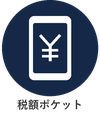
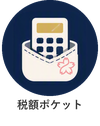
ポータルのアイコンをアプリ本体の絵柄にし、配布物から連絡手段の名前を外す
いずれも 2026-08-20 のユーザー判断（判断ログ D-39）。kintone 側も同日に
差し替え済み（ポータルのアイコン・レコードの説明・添付の配布手順書）。

- ポータルの丸アイコンを icons/icon-512.png を丸く切ったものに変更した。
  職員のホーム画面と同じ絵になり、説明なしで結び付く。本体のアイコンを
  作り直したらポータル側も流し直す旨を CLAUDE.md に書いた
- チャットワークを畳む予定のため、改正の知らせ方・要望の宛先から手段の
  名前を外した（配布手順書の md と html、改正対応手順、案内文）
- PCのブラウザでも使えることを配布手順書と案内文に1行ずつ足した
- ファイル管理アプリのアクセス権を確認し、全職員が開けることを記録した

diff --git a/docs/配布手順書.html b/docs/配布手順書.html
@@ -161,12 +161,13 @@
 <div class="sheet">
 
 <h1>税額ポケット 使い方</h1>
-<p class="lead">関与先で税額を出すための計算ツールです。スマートフォンで使います。</p>
+<p class="lead">関与先で税額を出すための計算ツールです。スマートフォンでも、PCのブラウザでも使えます。</p>
 
 <section>
   <h2><span class="num">1</span>これは何か</h2>
   <p>スマートフォンのブラウザで開き、<strong>ホーム画面に追加して</strong>使います。</p>
   <a class="url" href="https://sakurataxsys.github.io/tax-pocket/">https://sakurataxsys.github.io/tax-pocket/</a>
+  <p><strong>PCのブラウザ（Edge・Chrome）でも、同じURLから同じように使えます。</strong>ホーム画面への追加はスマートフォンでの話です。事務所で試すだけならPCが早いです。</p>
   <p class="muted">いま入っているもの（メニューはこの順に並んでいます）</p>
   <dl class="menu-groups">
     <dt>便利ツール</dt>
@@ -247,7 +248,7 @@
 
 <section>
   <h2><span class="num">6</span>税制改正が反映されたときの知らせ方</h2>
-  <p>税率や金額が変わったときは、<strong>チャットワークの「税額ポケット」グループに投稿します。</strong></p>
+  <p>税率や金額が変わったときは、<strong>事務所から所内の連絡でお知らせします。</strong></p>
   <p><strong>自分の端末に反映されているかは、メニューの「更新の確認」で確かめられます。</strong>お知らせに書いてある<strong>数値表の名前と日付</strong>を、この画面の同じ行と見比べてください。同じなら反映済みです。</p>
 
   <div class="note">
@@ -258,7 +259,7 @@
   <ol>
     <li><strong>通信できる場所で</strong>「更新の確認」をもう一度開く</li>
     <li>それでも変わらないときは、アプリをいったん閉じて開き直す（<strong>1回で変わらないことがあります。そのときはもう一度</strong>）</li>
-    <li>なお直らないときはチャットワークのグループに書いてください（端末側の不具合の可能性があります）</li>
+    <li>なお直らないときは事務所の担当まで知らせてください（端末側の不具合の可能性があります）</li>
   </ol>
 
   <div class="keep">
@@ -284,7 +285,7 @@
 
 <section>
   <h2><span class="num">8</span>要望・不具合</h2>
-  <p>チャットワークの「税額ポケット」グループへ。特に次の2つを聞かせてください。</p>
+  <p>事務所の担当まで。特に次の2つを聞かせてください。</p>
   <ol>
     <li>関与先で実際に開いたか</li>
     <li>次にどのメニューが欲しいか</li>

diff --git a/assets/ポータルアイコン生成.py b/assets/ポータルアイコン生成.py
@@ -1,14 +1,16 @@
 # -*- coding: utf-8 -*-
 """kintone ポータルの丸アイコン（100x126）と、配布用のQRコードを作る。
 
-丸アイコンの意匠は、ポータルに並んでいる既存の丸アイコン
-（生成AI-OCR Scan-to-Journal・上手な税務調査の受け方 等）に合わせている。
-　・円は塗りつぶし、影とグラデーションは使わない
-　・ラベルは画像に焼き込む（既存のアイコンがそうなっているため）
+アイコンの絵柄は **アプリ本体のアイコン（`icons/icon-512.png`）を丸く切って使う**。
+職員がスマートフォンのホーム画面で見ているのと同じ絵がポータルにも並ぶので、
+「これがあのアプリ」と一目で繋がる（2026-08-20 ユーザー判断）。
+　・アプリ本体のアイコンの背景は一様なネイビー #0F254A なので、円に切っても継ぎ目が出ない
+　・ラベルは画像に焼き込む（ポータルの既存の丸アイコンがそうなっているため）
 　・お知らせ掲示板へはクリップボード経由で貼るので、白背景版も出力する
 
-★このアイコンは kintone ポータル用で、アプリ本体のアイコン（icons/*.png・桜のマーク）とは別物。
-　アプリ本体のアイコンは tools/icon-source.html で作る。片方を見てもう片方を直さないこと。
+★アプリ本体のアイコンを作り直すのは `tools/icon-source.html`。ここではそれを読むだけで、
+　手で画像を編集しない。本体のアイコンを変えたら、このスクリプトを流し直してポータルの
+　アイコンも差し替える。
 
 実行：py assets/ポータルアイコン生成.py
 """
@@ -19,37 +21,24 @@ from PIL import Image, ImageDraw, ImageFont
 
 S = 4  # 4倍で描いて縮小する（文字を滑らかにするため）
 W, H = 100 * S, 126 * S
-NAVY = (21, 40, 71, 255)  # 事務所ブランドのネイビー #152847
-WHITE = (255, 255, 255, 255)
 TEXT = (51, 51, 51, 255)
 LINES = ["税額ポケット"]
 URL = "https://sakurataxsys.github.io/tax-pocket/"
 
-img = Image.new("RGBA", (W, H), (255, 255, 255, 0))
-d = ImageDraw.Draw(img)
+here = Path(__file__).parent
+repo = here.parent
 
-# 円
+# アプリ本体のアイコンを円に切る
 cd = 96 * S
-cx, cy = W // 2, cd // 2
-d.ellipse([cx - cd // 2, cy - cd // 2, cx + cd // 2, cy + cd // 2], fill=NAVY)
+art = Image.open(repo / "icons" / "icon-512.png").convert("RGBA").resize((cd, cd), Image.LANCZOS)
+mask = Image.new("L", (cd, cd), 0)
+ImageDraw.Draw(mask).ellipse([0, 0, cd - 1, cd - 1], fill=255)
 
-# スマートフォン（白い本体＋ネイビーの画面）
-pw, ph = 42 * S, 64 * S
-px, py = cx - pw // 2, cy - ph // 2
-d.rounded_rectangle([px, py, px + pw, py + ph], radius=5 * S, fill=WHITE)
-d.rounded_rectangle(
-    [px + 4 * S, py + 7 * S, px + pw - 4 * S, py + ph - 7 * S], radius=2 * S, fill=NAVY
-)
-
-# 画面の中の「¥」（フォントに依存しないよう線で描く）
-yw = 3 * S  # 線の太さ
-d.line([cx - 10 * S, cy - 13 * S, cx, cy - 2 * S], fill=WHITE, width=yw)
-d.line([cx + 10 * S, cy - 13 * S, cx, cy - 2 * S], fill=WHITE, width=yw)
-d.line([cx, cy - 3 * S, cx, cy + 13 * S], fill=WHITE, width=yw)
-for by in (cy + 2 * S, cy + 8 * S):
-    d.line([cx - 8 * S, by, cx + 8 * S, by], fill=WHITE, width=int(2.5 * S))
+img = Image.new("RGBA", (W, H), (255, 255, 255, 0))
+img.paste(art, ((W - cd) // 2, 0), mask)
 
 # ラベル
+d = ImageDraw.Draw(img)
 font = ImageFont.truetype("C:/Windows/Fonts/YuGothB.ttc", 11 * S)
 y = 99 * S
 for line in LINES:
@@ -57,7 +46,6 @@ for line in LINES:
     d.text(((W - (bb[2] - bb[0])) // 2 - bb[0], y), line, font=font, fill=TEXT)
     y += 13 * S
 
-here = Path(__file__).parent
 out = img.resize((100, 126), Image.LANCZOS)
 out.save(here / "ポータルアイコン_税額ポケット.png")
 

diff --git a/docs/配布手順書.md b/docs/配布手順書.md
@@ -1,6 +1,6 @@
 # 税額ポケット 使い方（職員向け・配布用）
 
-> 配布用の HTML は `docs/配布手順書.html`（印刷・チャットワークへの添付はこちら）。内容はこのファイルと同じで、
+> 配布用の HTML は `docs/配布手順書.html`（印刷・職員への配布はこちら）。内容はこのファイルと同じで、
 > **片方だけ直さないこと。** PDF が要るときは `node tools/build_tejunsho_pdf.mjs` で HTML から起こす
 > （PDF はリポジトリに置かない。3つを揃えて直す保守が生まれ、必ずどれかが古くなるため）。
 > 手順は iPhone 実機で確認済み（2026年8月5日）。Android の表記だけ実機未確認 → `TASKS.md`
@@ -15,6 +15,9 @@
 関与先で税額を出すための計算ツールです。スマートフォンのブラウザで開き、**ホーム画面に追加して**使います。
 
 <https://sakurataxsys.github.io/tax-pocket/>
+
+**PCのブラウザ（Edge・Chrome）でも、同じURLから同じように使えます。**
+ホーム画面への追加はスマートフォンでの話です。事務所で試すだけならPCが早い。
 
 いま入っているもの（メニューはこの順に並んでいます）
 
@@ -95,7 +98,7 @@ Safari は、7日間使わなかったサイトの保存データを自動的に
 
 ## 6. 税制改正が反映されたときの知らせ方
 
-税率や金額が変わったときは、**チャットワークの「税額ポケット」グループに投稿します。**
+税率や金額が変わったときは、**事務所から所内の連絡でお知らせします。**
 
 **自分の端末に反映されているかは、メニューの「更新の確認」で確かめられます。**
 お知らせに書いてある**数値表の名前と日付**を、この画面の同じ行と見比べてください。同じなら反映済みです。
@@ -108,7 +111,7 @@ Safari は、7日間使わなかったサイトの保存データを自動的に
 
 1. **通信できる場所で**「更新の確認」をもう一度開く
 2. それでも変わらないときは、アプリをいったん閉じて開き直す（**1回で変わらないことがあります。そのときはもう一度**）
-3. なお直らないときはチャットワークのグループに書いてください（端末側の不具合の可能性があります）
+3. なお直らないときは事務所の担当まで知らせてください（端末側の不具合の可能性があります）
 
 **★メニューに「更新の確認」が見当たらないときは、その端末が古いままです。**
 通信できる場所で、アプリをいったん閉じて開き直してください。
@@ -137,7 +140,7 @@ Safari は、7日間使わなかったサイトの保存データを自動的に
 
 ## 8. 要望・不具合
 
-チャットワークの「税額ポケット」グループへ。特に次の2つを聞かせてください。
+事務所の担当まで。特に次の2つを聞かせてください。
 
 1. 関与先で実際に開いたか
 2. 次にどのメニューが欲しいか

diff --git a/docs/改正対応手順.md b/docs/改正対応手順.md
@@ -48,8 +48,10 @@
 
 ## 職員への知らせ方（決定済み。1回目を待たずに書く）
 
-改正を反映したら **チャットワークの「税額ポケット」グループに投稿する**（判断ログ D-12・D-25）。
-職員は投稿とアプリの「更新の確認」画面を見比べて、自分の端末が反映済みかを判断する。
+改正を反映したら **職員へ所内の連絡で知らせる**（判断ログ D-12・D-25・D-39）。
+職員は知らせとアプリの「更新の確認」画面を見比べて、自分の端末が反映済みかを判断する。
+
+**連絡手段の名前をこの文書やアプリに書かない。**手段は入れ替わり、書いた場所すべてを直すことになる。
 
 ### ★投稿に書く日付は「投稿した日」ではない
 

diff --git a/CLAUDE.md b/CLAUDE.md
@@ -94,6 +94,10 @@
 作り直すときは `tools/icon-source.html` を開いて「書き出す」。手で画像を編集しない。
 **画面とアイコンで方針が違うので、片方を見てもう片方を直さないこと。**
 
+**kintone ポータルの丸アイコン（`assets/`）は、このアプリ本体のアイコンを丸く切って作る**
+（2026-08-20・判断ログ D-39）。**本体のアイコンを作り直したら、`py assets/ポータルアイコン生成.py`
+を流し直してポータル側も差し替える。**
+
 ---
 
 ## 成功条件
